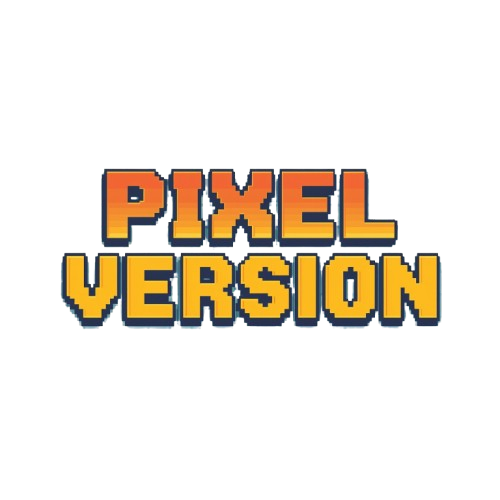
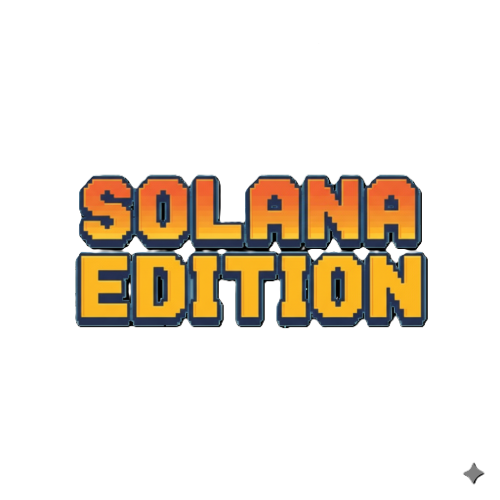
updated

Changed region(s): [[0.12, 0.33, 0.9, 0.66], [0.93, 0.93, 0.96, 0.99]]

diff --git a/src/styles/PixelImage.tsx b/src/styles/PixelImage.tsx
@@ -14,6 +14,30 @@ const PixelImage = styled.img`
   -moz-user-drag: none;
   -o-user-drag: none;
   user-select: none;
+
+  /* Solana color enhancement - shifts colors toward purple/green */
+  filter: saturate(10) contrast(10)
+  
+`;
+
+// Clean pixel image without gradient overlay (for title screens, logos, etc.)
+export const CleanPixelImage = styled.img`
+  image-rendering: optimizeSpeed;
+  image-rendering: -moz-crisp-edges;
+  image-rendering: -o-crisp-edges;
+  image-rendering: -webkit-optimize-contrast;
+  image-rendering: pixelated;
+  image-rendering: optimize-contrast;
+  -ms-interpolation-mode: nearest-neighbor;
+
+  /* Enhanced color depth for pixel-art appearance */
+  filter: saturate(1.2) contrast(1.1);
+
+  -webkit-user-drag: none;
+  -khtml-user-drag: none;
+  -moz-user-drag: none;
+  -o-user-drag: none;
+  user-select: none;
 `;
 
 export default PixelImage;

diff --git a/src/components/TitleScreen.tsx b/src/components/TitleScreen.tsx
@@ -53,6 +53,7 @@ const TitleSection = styled.div`
   width: 100%;
   align-items: center;
   height: 50%;
+  position: relative;
 `;
 
 const slideIn = keyframes`
@@ -75,7 +76,8 @@ const Title = styled(PixelImage)`
 
 const SubTitle = styled(PixelImage)`
   height: 100%;
-  top: 50rem;
+  position: absolute;
+  top: 85%;
   transform: translateY(-50%);
 
   animation: ${slideIn} 3s ease-in-out;
@@ -163,8 +165,8 @@ const TitleScreen = () => {
     <StyledTitleScreen>
       <TitleSection>
         <Title src={title} />
-        <SubTitle src={subtitle} />
-      </TitleSection>
+        <SubTitle src={subtitle}/>
+      </TitleSection> 
       <PokemonPlayerContainer>
         {pokemon && <Pokemon src={pokemon.images.front} />}
         <Player src={player} />

diff --git a/src/maps/pallet-town.ts b/src/maps/pallet-town.ts
@@ -41,7 +41,7 @@ const palletTown: MapType = {
     },
     8: {
       4: [
-        "I'm raising POKEMON too!",
+        "I'm raising POKEPIXEL too!",
         "When they get strong, they can protect me!",
         "Have you tried Pokepixel? It's the future!",
         "Play-to-earn on Solana blockchain!",
@@ -57,7 +57,7 @@ const palletTown: MapType = {
       10: [
         "Technology is incredible!",
         "You can now store and recall item ",
-        "POKEMON as data via PC!",
+        "POKEpixel as data via PC!",
         "But have you heard of Solana blockchain?",
         "Pokepixel stores your rewards on-chain!",
         "True ownership of your digital assets!",

diff --git a/pages/index.tsx b/pages/index.tsx
@@ -8,7 +8,7 @@ import Game from "components/Game";
 import MaintenancePage from "./maintenance";
 
 // Toggle this to enable/disable maintenance mode
-const MAINTENANCE_MODE = true;
+const MAINTENANCE_MODE = false;
 
 const StyledApp = styled.div`
   background: black;
